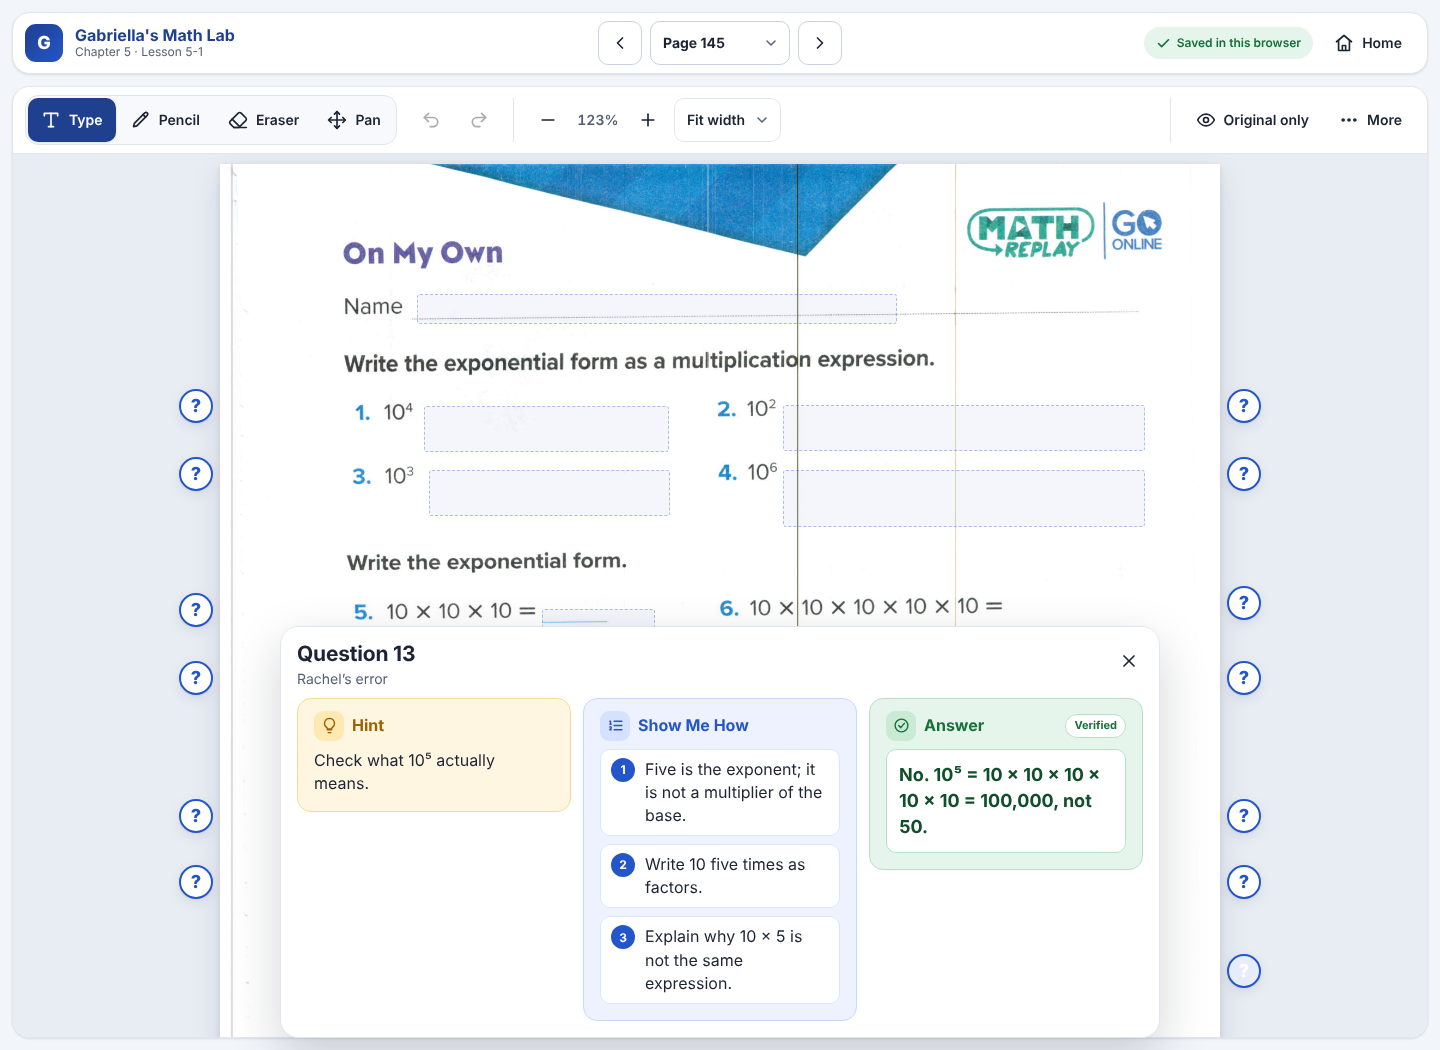
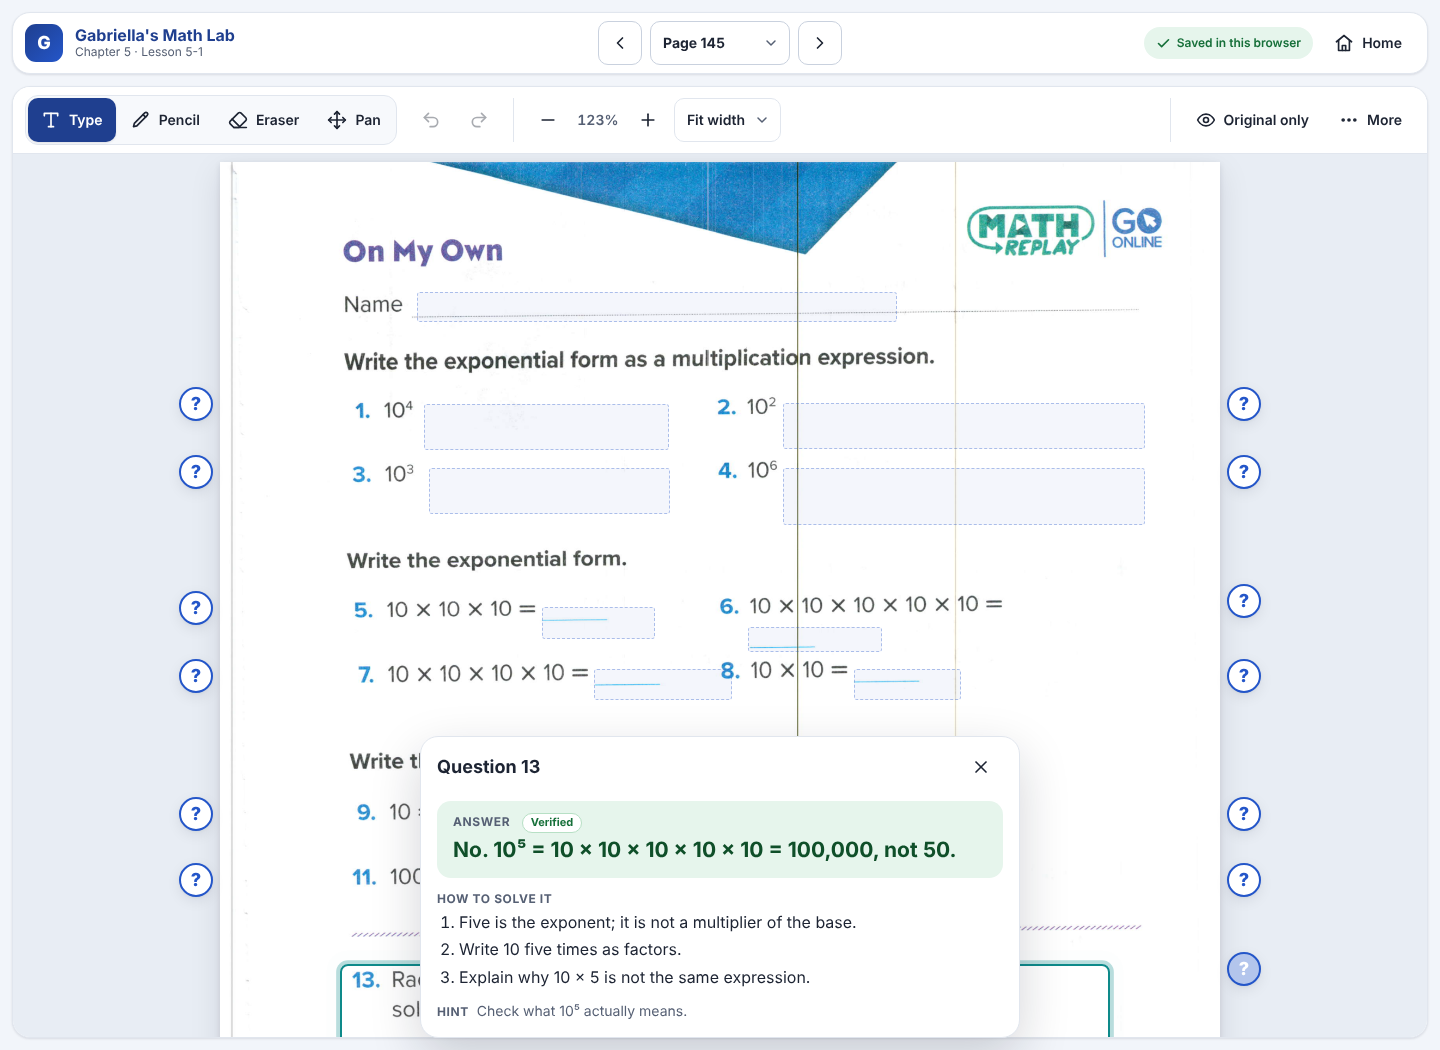
GML-006: Make the solution card one plain card
Replace the three coloured hint/steps/answer boxes with a single small card:
the answer in large type, the steps as a numbered list and the hint as one
line. Lesson 5-1 browser suite: 76 checks pass.

Claude-Session: https://claude.ai/code/session_018dbFcDMd4vdEjZrPDaWnnM

diff --git a/lesson-5-1/style.css b/lesson-5-1/style.css
@@ -195,32 +195,19 @@ body[data-mode=pen] .response, body[data-mode=eraser] .response, body[data-mode=
 body[data-mode=pan] #viewer { cursor: grab; touch-action: none; }
 body.original .layer { visibility: hidden; }
 
-/* 6. Solution card ------------------------------------------------------ */
-.help { position: fixed; z-index: 30; left: 50%; transform: translateX(-50%); bottom: var(--s-3); width: min(880px, calc(100vw - 24px)); max-height: 46dvh; display: flex; flex-direction: column; overflow: hidden; box-shadow: var(--shadow-lg); }
-.help-head { flex: none; display: flex; align-items: flex-start; justify-content: space-between; gap: var(--s-3); padding: var(--s-3) var(--s-2) var(--s-2) var(--s-4); }
-.help-head h2 { font-size: var(--fs-xl); font-weight: 740; letter-spacing: -.01em; outline: none; }
-.help-detail { color: var(--c-ink-2); font-size: var(--fs-sm); }
-.help-detail:empty { display: none; }
-.help-grid { flex: 1; min-height: 0; overflow: auto; overscroll-behavior: contain; display: grid; grid-template-columns: repeat(auto-fit, minmax(230px, 1fr)); gap: var(--s-3); padding: 0 var(--s-4) var(--s-4); align-items: start; }
-.help-card { border-radius: var(--r-md); padding: var(--s-3) var(--s-4) var(--s-4); border: 1px solid; display: grid; gap: var(--s-2); }
-.help-card h3 { display: flex; align-items: center; gap: var(--s-2); font-size: var(--fs-md); font-weight: 700; }
-.help-icon { display: grid; place-items: center; width: 30px; height: 30px; border-radius: 9px; flex: none; }
-.help-icon .icon { width: 17px; height: 17px; }
-.hint-card { background: var(--c-hint-soft); border-color: var(--c-hint-line); }
-.hint-card h3 { color: var(--c-hint); }
-.hint-card .help-icon { background: #ffe9b3; }
-.steps-card { background: var(--c-steps-soft); border-color: var(--c-steps-line); }
-.steps-card h3 { color: var(--c-steps); }
-.steps-card .help-icon { background: #d6e2fd; }
-.answer-card { background: var(--c-ok-soft); border-color: var(--c-ok-line); }
-.answer-card h3 { color: var(--c-ok); }
-.answer-card .help-icon { background: #c9ead5; }
-.badge { margin-left: auto; font-size: 11px; font-weight: 650; padding: 3px 8px; border-radius: var(--r-pill); background: #fff; color: var(--c-ok); border: 1px solid var(--c-ok-line); }
+/* 6. Solution card (one plain card) -------------------------------------- */
+.help { position: fixed; z-index: 30; left: 50%; transform: translateX(-50%); bottom: var(--s-3); width: min(600px, calc(100vw - 24px)); max-height: 40dvh; overflow: auto; overscroll-behavior: contain; padding: var(--s-2) var(--s-4) var(--s-4); box-shadow: var(--shadow-lg); display: grid; gap: var(--s-3); }
+.help-head { display: flex; align-items: center; justify-content: space-between; gap: var(--s-3); }
+.help-head h2 { font-size: var(--fs-lg); font-weight: 740; outline: none; }
+.help-label { display: block; font-size: var(--fs-xs); font-weight: 700; letter-spacing: .05em; text-transform: uppercase; color: var(--c-ink-2); }
+.help-answer { display: grid; gap: 2px; padding: var(--s-3) var(--s-4); border-radius: var(--r-md); background: var(--c-ok-soft); }
+.help-answer strong { font-size: var(--fs-xl); color: #0f4f29; overflow-wrap: anywhere; }
+.badge { display: inline-block; margin-left: var(--s-2); font-size: 11px; padding: 1px 8px; border-radius: var(--r-pill); background: #fff; color: var(--c-ok); border: 1px solid var(--c-ok-line); text-transform: none; letter-spacing: 0; }
 .badge:empty { display: none; }
-.step-list { list-style: none; margin: 0; padding: 0; counter-reset: step; display: grid; gap: var(--s-2); }
-.step-list li { counter-increment: step; position: relative; padding: var(--s-2) var(--s-3) var(--s-2) 44px; background: #fff; border-radius: var(--r-sm); border: 1px solid #dbe5fc; }
-.step-list li::before { content: counter(step); position: absolute; left: 10px; top: 8px; width: 24px; height: 24px; border-radius: 50%; background: var(--c-steps); color: #fff; font-size: 12px; font-weight: 700; display: grid; place-items: center; }
-.answer-text { background: #fff; border-radius: var(--r-sm); border: 1px solid var(--c-ok-line); padding: var(--s-3); font-size: var(--fs-lg); font-weight: 650; color: #0f4f29; }
+.help-how { display: grid; gap: var(--s-1); }
+.help-how ol { margin: 0; padding-left: 22px; display: grid; gap: 4px; }
+.help-hint { color: var(--c-ink-2); font-size: var(--fs-sm); }
+.help-hint .help-label { display: inline; margin-right: 4px; }
 
 /* 7. Dialogs ------------------------------------------------------------- */
 dialog::backdrop { background: rgb(15 23 42 / .38); }
@@ -264,8 +251,7 @@ dialog::backdrop { background: rgb(15 23 42 / .38); }
   .tool-end { margin-left: 0; }
   .menu-card { position: fixed; right: var(--s-2); left: var(--s-2); top: auto; width: auto; bottom: var(--s-2); max-height: 70dvh; overflow: auto; }
   #viewer { padding: var(--s-3) var(--gutter) calc(var(--s-3) + var(--help-h)); }
-  .help { bottom: 0; width: 100vw; border-radius: var(--r-lg) var(--r-lg) 0 0; max-height: 52dvh; }
-  .help-grid { padding: 0 var(--s-3) var(--s-3); grid-template-columns: minmax(0, 1fr); }
+  .help { bottom: 0; width: 100vw; border-radius: var(--r-lg) var(--r-lg) 0 0; max-height: 46dvh; padding-bottom: calc(var(--s-4) + env(safe-area-inset-bottom, 0px)); }
 }
 @media (max-width: 380px) { .brand-text { display: none; } }
 

diff --git a/lesson-5-1/index.html b/lesson-5-1/index.html
@@ -100,23 +100,16 @@
 <!-- Solution card: appears at the bottom when a ? is tapped -->
 <section id="help" class="card help" role="region" aria-labelledby="helpTitle" hidden>
   <div class="help-head">
-    <div><h2 id="helpTitle" tabindex="-1">Question</h2><p class="help-detail" id="helpDetail"></p></div>
+    <h2 id="helpTitle" tabindex="-1">Question</h2>
     <button id="closeHelp" class="btn btn-icon btn-ghost" aria-label="Close solution"><svg class="icon" aria-hidden="true"><use href="#i-x"/></svg></button>
   </div>
-  <div class="help-grid">
-    <section class="help-card hint-card" aria-labelledby="hintTitle">
-      <h3 id="hintTitle"><span class="help-icon"><svg class="icon" aria-hidden="true"><use href="#i-bulb"/></svg></span>Hint</h3>
-      <p id="hint"></p>
-    </section>
-    <section class="help-card steps-card" aria-labelledby="stepsTitle">
-      <h3 id="stepsTitle"><span class="help-icon"><svg class="icon" aria-hidden="true"><use href="#i-steps"/></svg></span>Show Me How</h3>
-      <ol id="steps" class="step-list"></ol>
-    </section>
-    <section class="help-card answer-card" aria-labelledby="answerTitle">
-      <h3 id="answerTitle"><span class="help-icon"><svg class="icon" aria-hidden="true"><use href="#i-answer"/></svg></span>Answer <span class="badge" id="answerBadge"></span></h3>
-      <p id="answer" class="answer-text"></p>
-    </section>
+  <p class="help-answer"><span class="help-label">Answer <span class="badge" id="answerBadge"></span></span><strong id="answer"></strong></p>
+  <div class="help-how">
+    <span class="help-label">How to solve it</span>
+    <ol id="steps"></ol>
   </div>
+  <p class="help-hint"><span class="help-label">Hint</span> <span id="hint"></span></p>
+  <p id="helpDetail" hidden></p>
 </section>
 
 <dialog id="clearDialog" class="card confirm" aria-labelledby="clearTitle">

diff --git a/lesson-5-1/app.js b/lesson-5-1/app.js
@@ -170,7 +170,7 @@ try {
     $('answer').textContent = q.answer;
     $('answerBadge').textContent = q.openEnded ? 'Sample answer' : 'Verified';
     $('answerBadge').title = q.openEnded ? 'Other answers can also be correct when well explained.' : q.verification || '';
-    $('help').querySelector('.help-grid').scrollTop = 0;
+    $('help').scrollTop = 0;
     $('help').hidden = false;
     document.body.classList.add('help-open');
     document.body.style.setProperty('--help-h', ($('help').offsetHeight + 12) + 'px');
